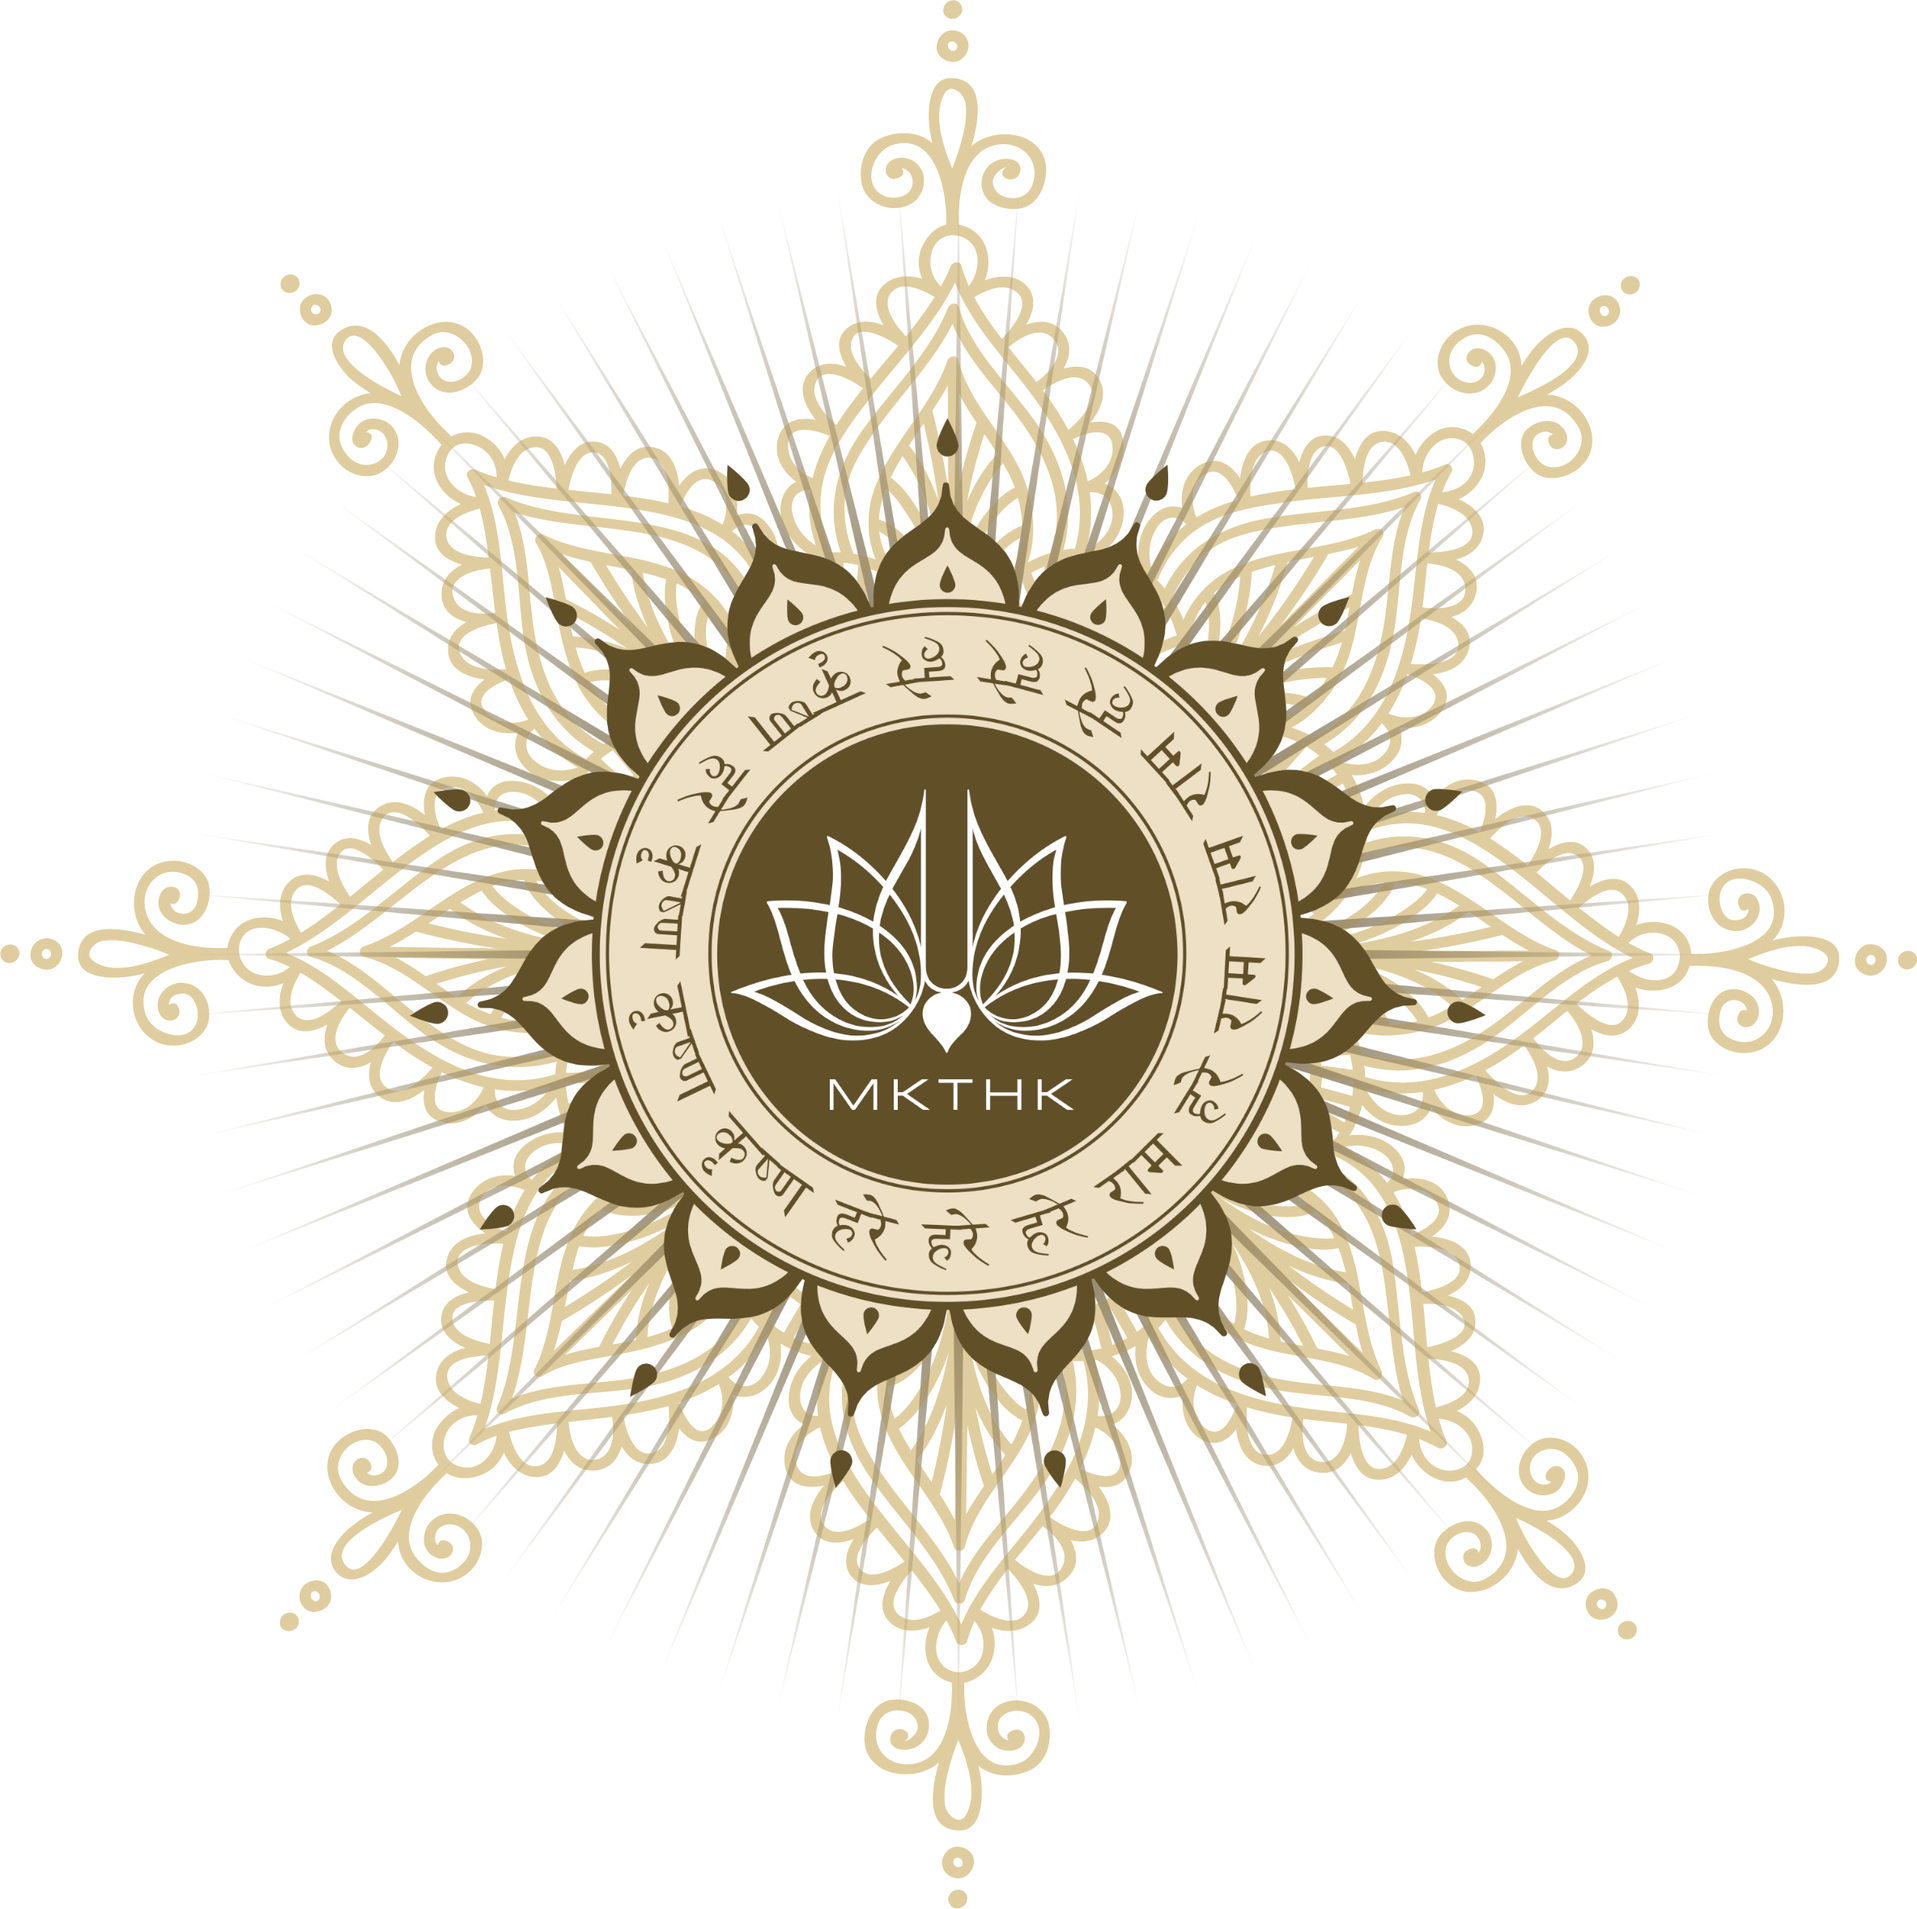
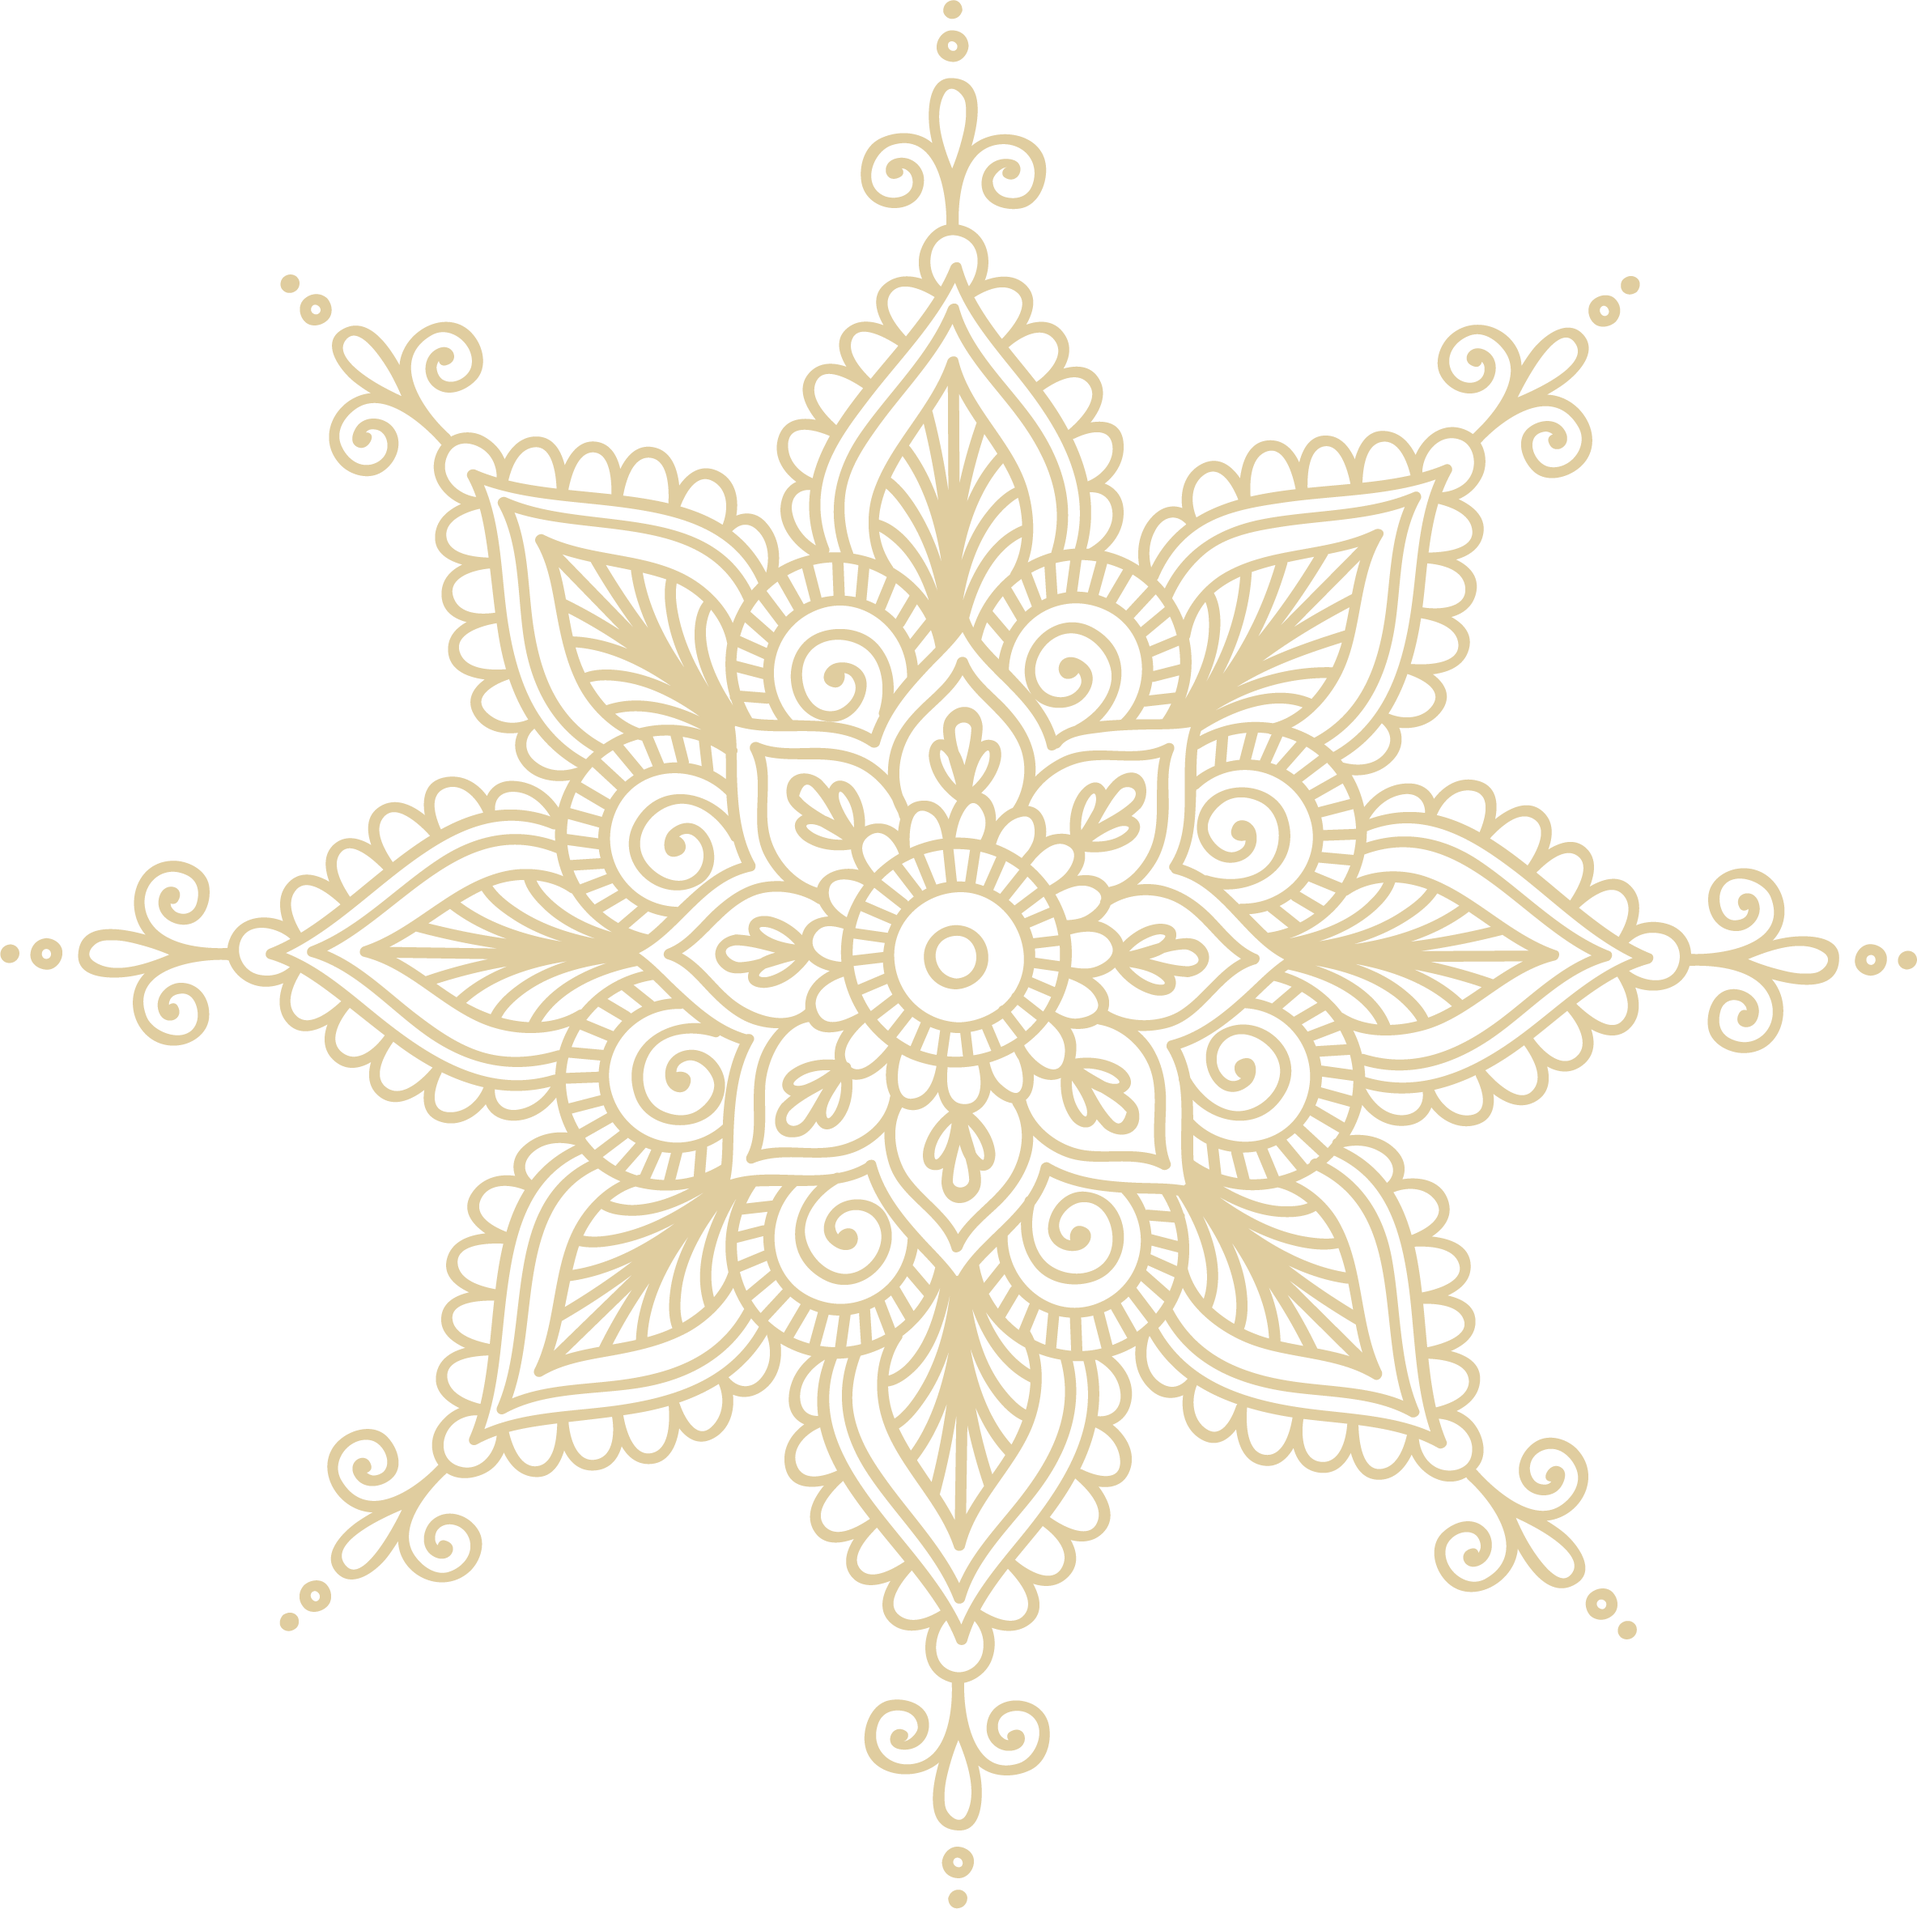
design fix for index

Changed region(s): [[0.1875, 0.1858, 0.8125, 0.8049]]

diff --git a/pages/index.vue b/pages/index.vue
@@ -1,11 +1,13 @@
 <template>
   <div>
-    <button>Gauranga</button>
+    <NuxtLink to="/home">Gauranga</NuxtLink>
   </div>
 </template>
 
 <script>
-export default {}
+export default {
+  transition: "slideUp",
+}
 </script>
 
 <style scoped lang="scss">
@@ -14,10 +16,15 @@ div {
   align-items: flex-end;
   justify-content: center;
   height: 100vh;
+  background-image: url('~/assets/background-logo.png');
+  background-size: 35rem;
+  background-repeat: no-repeat;
+  background-position: center center;
 
-  button {
+  a {
     background-color: #483a1d;
     color: #ede0c5;
+    text-decoration: none;
     font-size: 2rem;
     font-weight: 500;
     border: none;
@@ -25,5 +32,14 @@ div {
     padding: 0.5rem 2rem;
     margin-bottom: 6rem;
   }
+}
+
+.slideUp-enter-active,
+.slideUp-leave-active {
+  transition: transform 0.5s;
+}
+.slideUp-enter,
+.slideUp-leave-active {
+  transform: translateY(-100rem);
 }
 </style>
